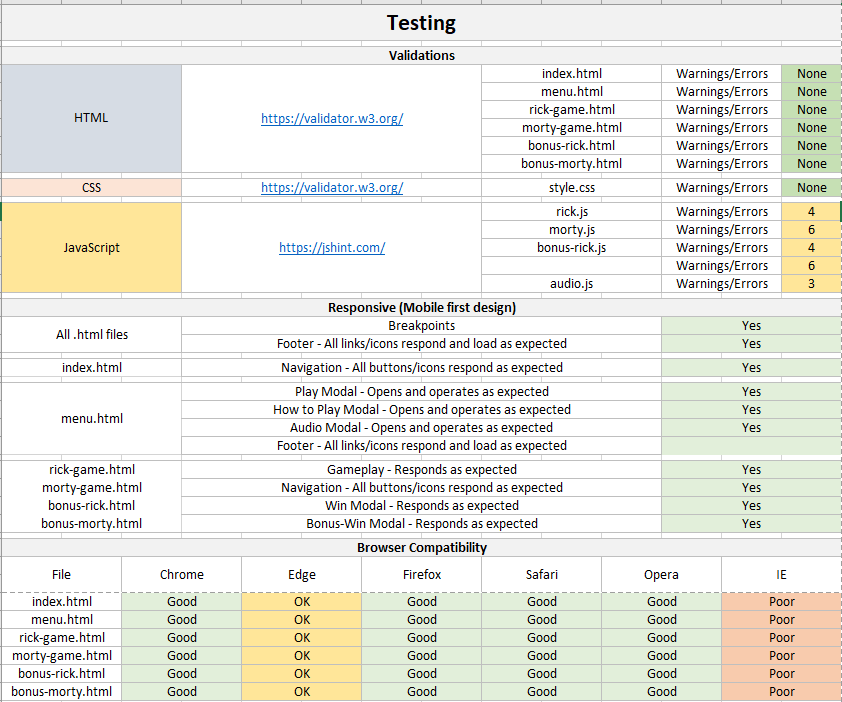
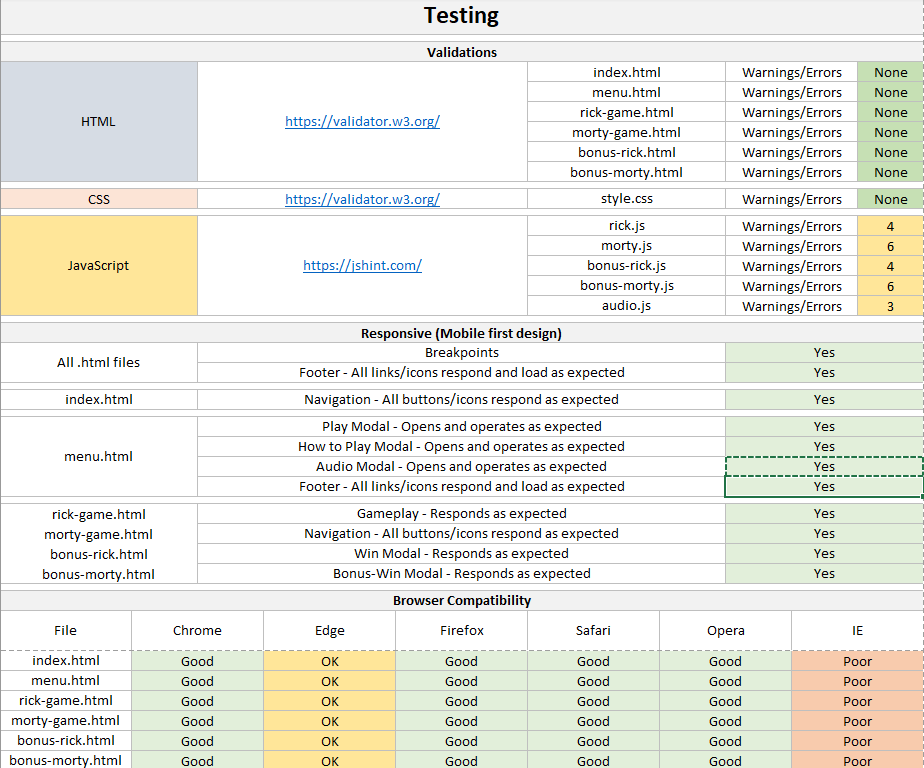
Project is 'complete' and ready for submission.

diff --git a/README.md b/README.md
@@ -132,7 +132,7 @@ This would help keep the game fresh and prevent the user from becoming bored wit
 - [Cascading Style Sheets (CSS)](https://www.w3schools.com/css/default.asp) is a style sheet language used for describing the presentation of a document written in a mark-up language like HTML. CSS is a cornerstone technology of the World Wide Web, alongside HTML and JavaScript. - Wikipedia
 
 #### **JavaScript**
-- [JavaScript]https://www.w3schools.com/js/DEFAULT.asp is the worlds most popular programming language, and the programming language of the web.
+- [JavaScript](https://www.w3schools.com/js/DEFAULT.asp) is the worlds most popular programming language, and the programming language of the web.
 
 #### **Bootstrap**
 - [Bootstrap](https://getbootstrap.com/) is a free and open source CSS framework directed at responsive, mobile-first front-end web development. It contains CSS and (optionally) JavaScript-based design templates for typography, forms, buttons, navigation, and other interface components. - Wikipedia
@@ -152,6 +152,9 @@ This would help keep the game fresh and prevent the user from becoming bored wit
 #### **W3C Validation**
 - [Mark-up Validation Service](https://validator.w3.org/) is a validator by the World Wide Web Consortium (W3C) that allows Internet users to check HTML and XHTML documents for well-formed mark-up. Mark-up validation is an important step towards ensuring the technical quality of web pages. – Wikipedia
 
+#### **JS Hint**
+- [JS Hint](https://jshint.com/) is a community-driven tool that detects errors and potential problems in JavaScript code.
+
 #### **GIMP**
 - [GIMP](https://www.gimp.org/) is a free and open-source raster graphics editor used for image retouching and editing, free-form drawing, converting between different image formats, and more specialized tasks. - Wikipedia
 
@@ -164,7 +167,68 @@ Testing my JavaScript has been more difficult as I have needed to rely on others
 My shortcomings in understanding JavaScript have had an adverse effect on my ability to produce and test code as well as I would have liked.
 
 
-![Testing Results](assets/readme.md/testing/)
+![Testing Results](assets/readme.md/testing/testing.png)
+
+After running my JavaScript through [JS Hint](https://jshint.com/), it was clear that there was issuse with the JavaScript code that I had written.
+These seemed to be minor errors, where duplicaton of variables had taken place. Rectification of these errors has been a slow process
+and will require further attention once my knowledge of the language improves.
+
+#### **Audio Testing**
+While audio is functional, it is by no means clean.  several issues arose during testing that have still to be resolved and I am unequiped to rectify these errors.
+Cross page compatability is not responsive, meaning that the user is required to turn off the audio on every page, if required, rather that being able to select it
+once from the option menu.  This is poor UX and will require major rectification at a later date.  While efforts were made to fix these issues with both my mentor and tutor support,
+I just connot see a way of improving this feature until my understanding of the language improves.
+
+## **Deployment**
+
+#### **Deployed site**
+1.	I created an account on GitHub - https://github.com/bicks79
+2.	I used the my-full-template - https://github.com/Code-Institute-Org/gitpod-full-template from Code Institute as the base for my project.
+3.	I created the repository - https://github.com/bicks79/ShowMeWhatYouGot for my Milestone project.
+4.	To publish the project and make it available for public viewing, I used the following steps: 
+    - Opened my repositories.
+    - Selected - https://github.com/bicks79/ShowMeWhatYouGot from the list of repositories. 
+    - Chose the settings option on the right of the taskbar.
+    - Scrolled down the page until ‘GitHub Pages’ was visible.
+    - Clicked on the ‘source settings’ drop-down menu and selected ‘master branch’ for publishing.
+    - You are returned to the top of the page.
+    - After scrolling back down to ‘GitHub Pages’, a link to my repository was available.
+    - My project is now available to view publicly - https://bicks79.github.io/ShowMeWhatYouGot/
+
+#### **Cloning the Repository**
+1. Using the above steps, navigate to the ShowMeWhatYouGot repository.
+2. Select the green 'Code' button
+3. Using the clipboard icon, copy the repository under 'HTTPS'
+4. Open Git Bash
+5. Change the current working directory to the location where you wish to clone the repository
+6. Type git clone, and then paste in the URL.
+
+## **Credits**
+
+#### **Content**
+- [HTML](https://www.w3schools.com/html/default.asp)
+- [CSS](https://www.w3schools.com/css/default.asp)
+- [JavaScript](https://www.w3schools.com/js/DEFAULT.asp)
+- [101 Computing.net](https://www.101computing.net/sliding-puzzle/)
+- [CDN.JS](https://cdnjs.com/)
+- [Font Awesome](https://fontawesome.com/)
+- [Google Fonts](https://fonts.google.com/)
+- [CSS Tricks](https://css-tricks.com/)
+- [CSShake](https://elrumordelaluz.github.io/csshake/)
+- [Popper](https://popper.js.org/)
+- [Stack Overflow](https://stackoverflow.com/)
+
+#### **Media**
+All images and audio are the property of [Adult Swim](https://www.adultswim.com/) and [Rick and Morty](https://www.rickandmorty.com/).
+I do not own, or claim to own any of the images or audio used within this project.
+
+## **Acknowledgements**
+- Thank you to [Adult Swim](https://www.adultswim.com/) and [Rick and Morty](https://www.rickandmorty.com/), for hours of entertainment, this project would not have been possible without your content.
+- Thank you to my family for their constant support and motivation during my struggle with JavaScript.
+- Thank you to [Stuart Crang](https://www.linkedin.com/in/stuart-crang-50401897/) once again you have been incredibly supportive during what has been a difficult 3/4 months. I honestly don't know how I would still be on this course without you. 
+- Thank you to my Mentor [Precious Ijege](https://www.linkedin.com/in/precious-ijege-908a00168/).
+
+
 
 
 
